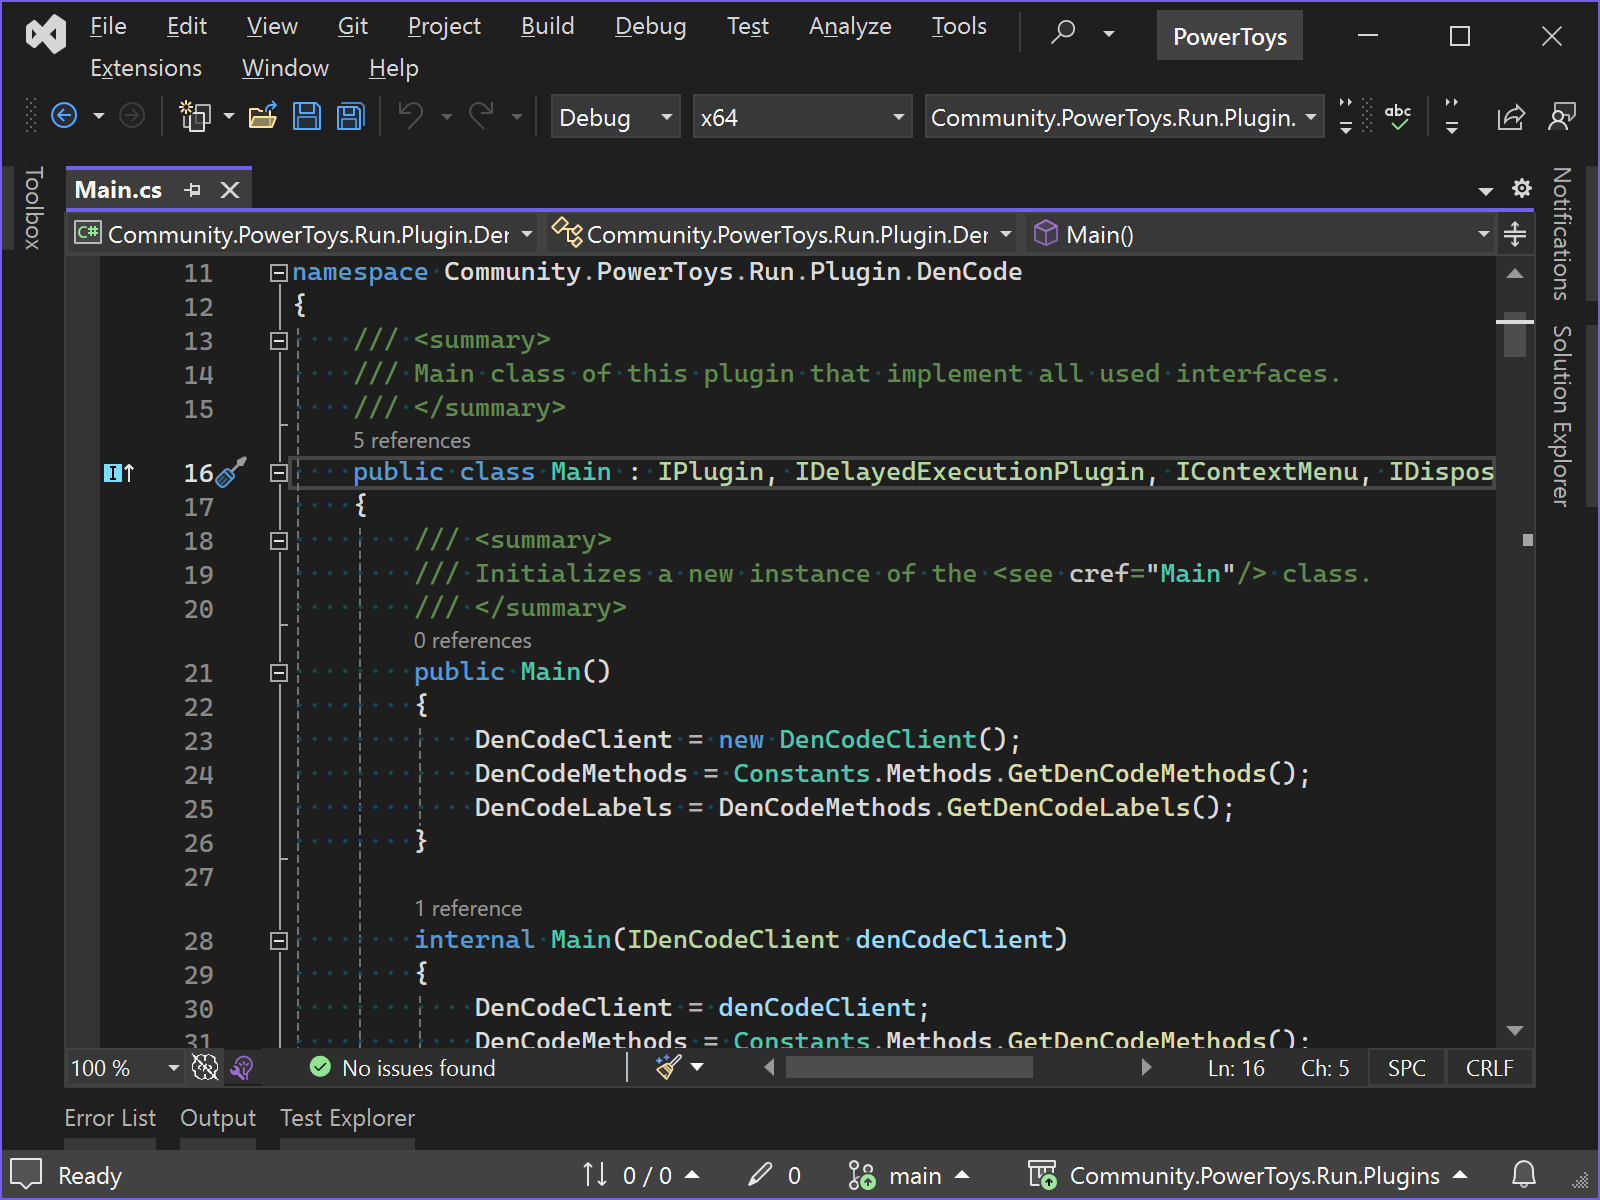
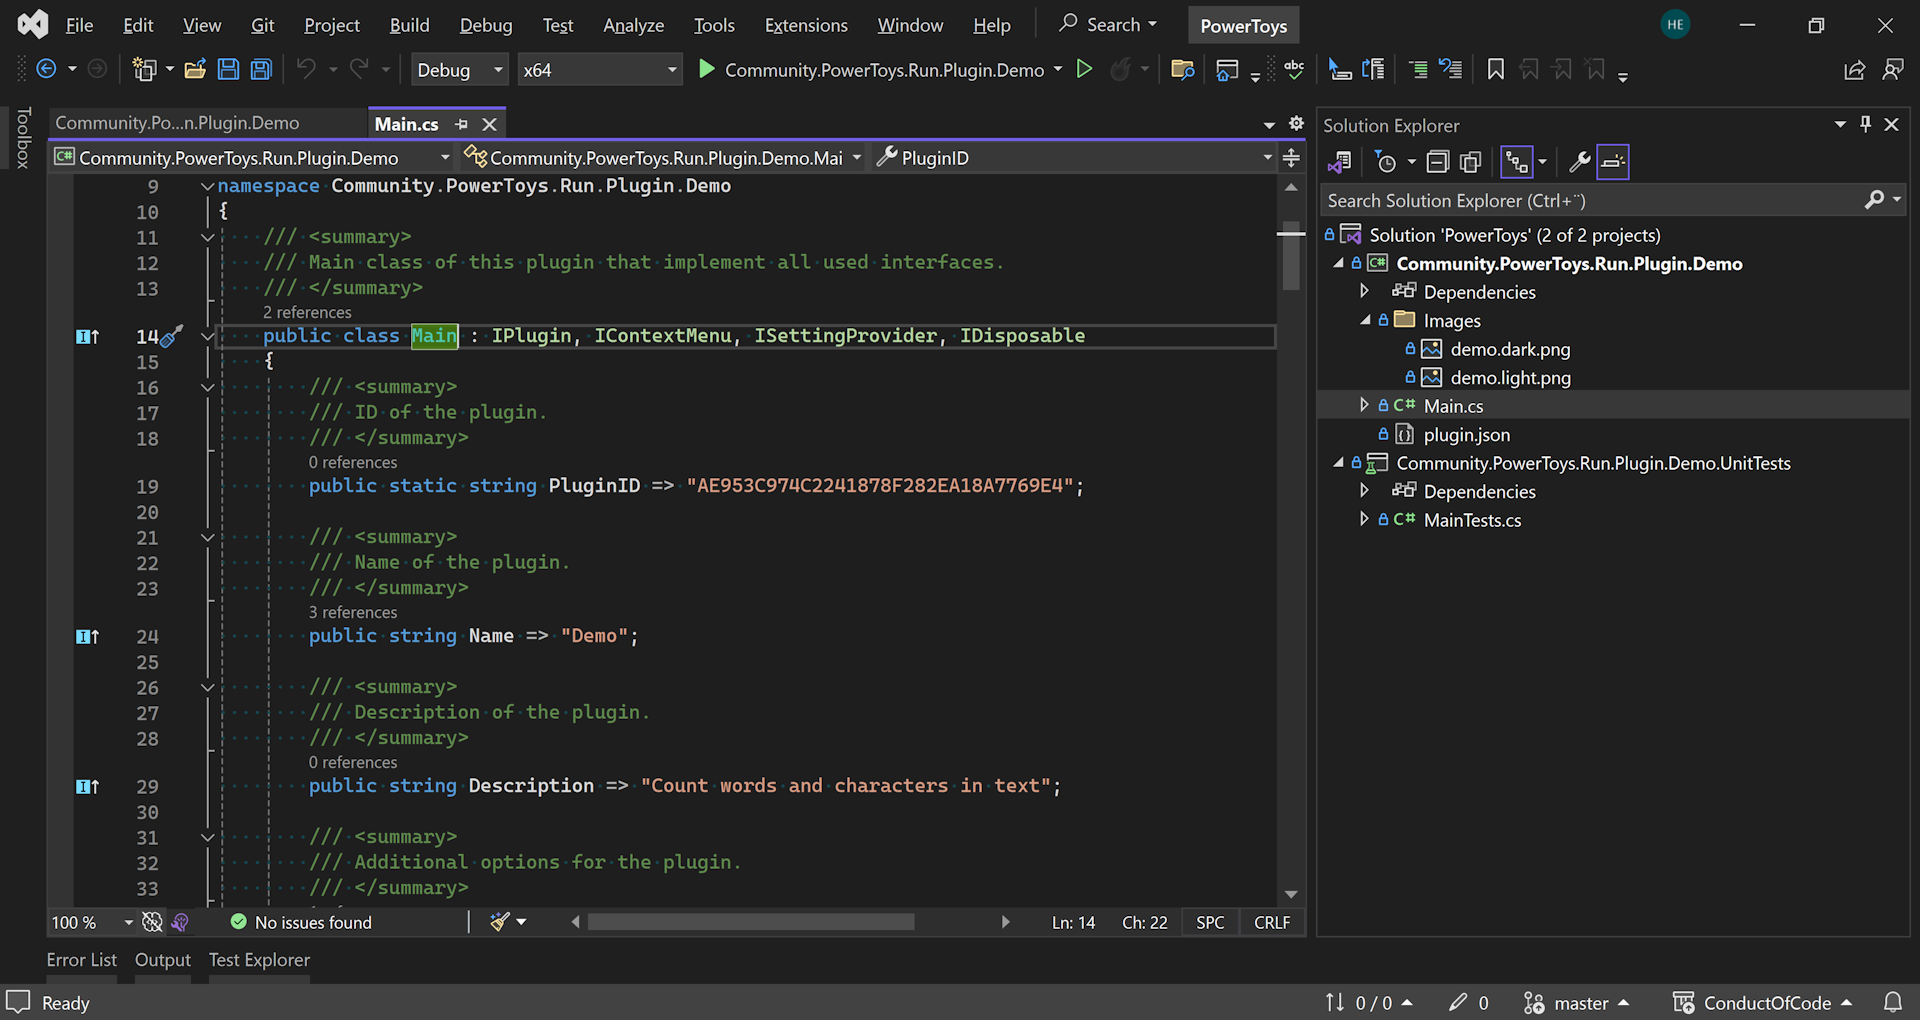
updated Creating custom PowerToys Run plugins

Changed region(s): [[0.0, 0.0, 1.0, 1.0], [0.8125, 0.851, 0.9688, 0.9118], [0.0312, 0.6078, 0.0625, 0.6382]]

diff --git a/_posts/2024-02-13-creating-custom-powertoys-run-plugins.md b/_posts/2024-02-13-creating-custom-powertoys-run-plugins.md
@@ -3,14 +3,15 @@ layout: post
 title: Creating custom PowerToys Run plugins
 description: A step by step guide on how to create community plugins for PowerToys Run
 date: 2024-02-13 22:00:00
+last_modified_at: 2024-02-17 21:00:00
 tags:
  - PowerToys
  - Plugins
  - C#
 image:
  path: /post/creating-custom-powertoys-run-plugins/vs.png
- width: 1600
- height: 1200
+ width: 1920
+ height: 1020
 ---
 
 PowerToys Run is a quick launcher for Windows. It is open-source and modular for additional plugins.
@@ -22,7 +23,7 @@ Official plugins include:
 - Value Generator
 - Windows Search
 
-At the time of writing there are 21 plugins out of the box.
+At the time of writing there are 20 plugins out of the box.
 
 If you think the official plugins are not enough, you can write our own.
 The easiest way to get started is to look at what others did.
@@ -35,13 +36,49 @@ The easiest way to get started is to look at what others did.
 
 Browsing through some of the GitHub repos found above, gives you an idea of how the source code of a plugin looks like.
 
-If you want to look under the hood, fork or clone the PowerToys repo:
+## Contents<!-- omit in toc -->
 
-- <https://github.com/microsoft/PowerToys>
+- [Demo Plugin](#demo-plugin)
+- [Project](#project)
+- [Metadata](#metadata)
+- [Main](#main)
+- [Interfaces](#interfaces)
+  - [IPlugin](#iplugin)
+  - [IPluginI18n](#iplugini18n)
+  - [IDelayedExecutionPlugin](#idelayedexecutionplugin)
+  - [IContextMenu](#icontextmenu)
+  - [ISettingProvider](#isettingprovider)
+- [Classes](#classes)
+  - [PluginInitContext](#plugininitcontext)
+  - [Query](#query)
+  - [Result](#result)
+  - [ContextMenuResult](#contextmenuresult)
+- [Actions](#actions)
+- [Logging](#logging)
+- [Dependencies](#dependencies)
+- [Tests](#tests)
+- [Distribution](#distribution)
+- [Resources](#resources)
 
-Get the solution to build on your machine with the help of the documentation:
+## Demo Plugin
 
-- [Compiling PowerToys](https://github.com/microsoft/PowerToys/tree/main/doc/devdocs#compiling-powertoys)
+As a demo, I created a simple plugin that counts the words and characters of the query.
+
+![Demo Plugin](demo-plugin.png)
+
+- ActionKeyword: `demo`
+
+Settings:
+
+![Demo Settings](demo-settings.png)
+
+- Count spaces: `true` \| `false`
+
+The source code:
+
+- <https://github.com/hlaueriksson/ConductOfCode/tree/master/PowerToysRun>
+
+Throughout this blog post, the demo plugin will be used as an example.
 
 ## Project
 
@@ -49,70 +86,37 @@ Before you create your own project, first take a look at the official checklist:
 
 - [New plugin checklist](https://github.com/microsoft/PowerToys/blob/main/doc/devdocs/modules/launcher/new-plugin-checklist.md)
 
-Key takeaways for the checklist:
+Key takeaways from the checklist:
 
 - Project name: `Community.PowerToys.Run.Plugin.<PluginName>`
 - Target framework: `net8.0-windows`
 - Create a `Main.cs` class
 - Create a `plugin.json` file
 
-After you create a new project, edit the `.csproj` file to look something like this:
+In Visual Studio, create a new [Class Library](https://learn.microsoft.com/en-us/dotnet/core/tutorials/library-with-visual-studio) project.
 
-```xml
-<Project Sdk="Microsoft.NET.Sdk">
+The edit the `.csproj` file to look something like this:
 
-  <PropertyGroup>
-    <TargetFramework>net8.0-windows</TargetFramework>
-    <Platforms>x64;ARM64</Platforms>
-    <PlatformTarget>$(Platform)</PlatformTarget>
-    <UseWPF>true</UseWPF>
-  </PropertyGroup>
-
-  <ItemGroup Condition="'$(Platform)' == 'x64'">
-    <Reference Include="..\libs\x64\PowerToys.Common.UI.dll" />
-    <Reference Include="..\libs\x64\PowerToys.ManagedCommon.dll" />
-    <Reference Include="..\libs\x64\PowerToys.Settings.UI.Lib.dll" />
-    <Reference Include="..\libs\x64\Wox.Infrastructure.dll" />
-    <Reference Include="..\libs\x64\Wox.Plugin.dll" />
-  </ItemGroup>
-
-  <ItemGroup Condition="'$(Platform)' == 'ARM64'">
-    <Reference Include="..\libs\ARM64\PowerToys.Common.UI.dll" />
-    <Reference Include="..\libs\ARM64\PowerToys.ManagedCommon.dll" />
-    <Reference Include="..\libs\ARM64\PowerToys.Settings.UI.Lib.dll" />
-    <Reference Include="..\libs\ARM64\Wox.Infrastructure.dll" />
-    <Reference Include="..\libs\ARM64\Wox.Plugin.dll" />
-  </ItemGroup>
-
-  <ItemGroup>
-    <None Include="plugin.json">
-      <CopyToOutputDirectory>PreserveNewest</CopyToOutputDirectory>
-    </None>
-    <None Include="Images\*.png">
-      <CopyToOutputDirectory>PreserveNewest</CopyToOutputDirectory>
-    </None>
-  </ItemGroup>
-
-</Project>
-```
+{% gist hlaueriksson/5484a19def85f618d7a2297628486c80 Community.PowerToys.Run.Plugin.Demo.csproj %}
 
 - Platforms: `x64` and `ARM64`
-- Dependencies: PowerToys and Wox `.dll` binaries
+- `UseWPF` to include references to WPF assemblies
+- Dependencies: PowerToys and Wox `.dll` assemblies
 
 The `.dll` files referenced in the `.csproj` file are examples of dependencies needed, depending on what features your plugin should support.
 
 Unfortunately, these assemblies do not exist as packages on NuGet.
 
-I like to commit these `.dll` files to the repo in a `libs` folder.
+Therefore I like to commit these `.dll` files to the repo in a `libs` folder.
 
-I'll copy the `x64` versions of the `.dll` files from installation location:
+I'll copy the `x64` versions of the `.dll` files from the installation location:
 
 - `C:\Program Files\PowerToys\`
   - Machine wide installation of PowerToys
 - `%LocalAppData%\PowerToys\`
   - Per user installation of PowerToys
 
-In the case of `ARM64` versions of the `.dll` files, I'll build them from source.
+In the case of the `ARM64` versions of the `.dll` files, I'll build them from source.
 I don't own an `ARM64` machine to install PowerToys on.
 
 Other people like to resolve the dependencies by referencing the PowerToys projects directly.
@@ -123,24 +127,42 @@ Like the approach by Lin Yu-Chieh (Victor):
 The project should start out with these files:
 
 - `Images\*.png`
-  - typically dark and light versions of icons
+  - Typically dark and light versions of icons
 - `Main.cs`
-  - the starting point of the plugin logic
+  - The starting point of the plugin logic
 - `plugin.json`
-  - the plugin manifest
+  - The plugin metadata
+
+## Metadata
+
+Create a `plugin.json` file that looks something like this:
+
+{% gist hlaueriksson/5484a19def85f618d7a2297628486c80 plugin.json %}
+
+The format is described in the Dev Documentation:
+
+- [New plugin checklist](https://github.com/microsoft/PowerToys/blob/main/doc/devdocs/modules/launcher/new-plugin-checklist.md)
 
 ## Main
+
+Create a `Main.cs` file that looks something like this:
+
+{% gist hlaueriksson/5484a19def85f618d7a2297628486c80 Main.cs %}
 
 The `Main` class must have a public, static string property named `PluginID`:
 
 ```cs
-public static string PluginID => "0B47DD2677CD41E9927218E9D67EFAD1";
+public static string PluginID => "AE953C974C2241878F282EA18A7769E4";
 ```
 
 - 32 digits `Guid` without hyphens
 - Must match the value in the `plugin.json` file
 
 In addition, the `Main` class should implement a few interfaces.
+
+Let's break down the implemented *interfaces* and the *classes* used in the example above.
+
+## Interfaces
 
 Some interfaces of interest from the `Wox.Plugin` assembly:
 
@@ -149,13 +171,6 @@ Some interfaces of interest from the `Wox.Plugin` assembly:
 - `IDelayedExecutionPlugin`
 - `IContextMenu`
 - `ISettingProvider`
-
-Some classes of interest from the `Wox.Plugin` assembly:
-
-- `PluginInitContext`
-- `Query`
-- `Result`
-- `ContextMenuResult`
 
 ### IPlugin
 
@@ -175,7 +190,8 @@ public interface IPlugin
 ```
 
 - `Query` is the method that does the actual logic in the plugin
-- `Init` is used to initialize the plugin and complements a constructor
+- `Init` is used to initialize the plugin
+  - Save a reference to the `PluginInitContext` for later use
 - `Name` ought to match the value in the `plugin.json` file, but can be localized
 
 ### IPluginI18n
@@ -244,6 +260,15 @@ public interface ISettingProvider
 - `AdditionalOptions` is invoked when the PowerToys GUI displays the settings
   - Use this property to define how the custom settings are renderer in the PowerToys GUI
 
+## Classes
+
+Some classes of interest from the `Wox.Plugin` assembly:
+
+- `PluginInitContext`
+- `Query`
+- `Result`
+- `ContextMenuResult`
+
 ### PluginInitContext
 
 A `PluginInitContext` instance is passed as argument to the `Init` method:
@@ -257,7 +282,6 @@ public class PluginInitContext
 }
 ```
 
-- Store the context in a member in the plugin for later use
 - `PluginMetadata` can be useful if you need the path to the `PluginDirectory` or the `ActionKeyword` of the plugin
 - `IPublicAPI` is mainly used to `GetCurrentTheme`, but can also `ShowMsg`, `ShowNotification` or `ChangeQuery`
 
@@ -279,7 +303,7 @@ Example of how to create a new result:
 ```cs
 new Result
 {
-    QueryTextDisplay = "An optional text that are displayed where the user types queries", // usually a command of some sort (if needed)
+    QueryTextDisplay = query.Search, // displayed where the user types queries
     IcoPath = IconPath, // displayed on the left side
     Title = "A title displayed in the top of the result",
     SubTitle = "A subtitle displayed under the main title",
@@ -331,7 +355,7 @@ Find the perfect `Glyph` to use from:
 - [Segoe Fluent Icons font](https://learn.microsoft.com/en-us/windows/apps/design/style/segoe-fluent-icons-font)
 - [Segoe MDL2 Assets icons](https://learn.microsoft.com/en-us/windows/apps/design/style/segoe-ui-symbol-font)
 
-## Action
+## Actions
 
 Examples of actions to use with `Result` or `ContextMenuResult`:
 
@@ -361,14 +385,14 @@ Action = _ =>
 
 ## Logging
 
-Logging is done with the static `Log` class.
+Logging is done with the static `Log` class, from the `Wox.Plugin.Logger` namespace.
 Under the hood, `NLog` is used.
 
 Five log levels:
 
 ```cs
 Log.Debug("A debug message", GetType());
-Log.Info("An info message", GetType());
+Log.Info("An information message", GetType());
 Log.Warn("A warning message", GetType());
 Log.Error("An error message", GetType());
 Log.Exception("An exceptional message", new Exception(), GetType());
@@ -391,7 +415,7 @@ Packages of interest:
 - `LazyCache`
 - `Newtonsoft.Json`
 
-If the plugin uses any third party dependencies that are not referenced by PowerToys you need to enable `DynamicLoading`.
+If the plugin uses any third party dependencies that are not referenced by PowerToys Run, you need to enable `DynamicLoading`.
 
 In the `plugin.json` file:
 
@@ -414,49 +438,22 @@ The official plugins use the [MSTest](https://github.com/microsoft/testfx) frame
 
 The `.csproj` file of a unit test project may look something like this:
 
-```xml
-<Project Sdk="Microsoft.NET.Sdk">
-
-  <PropertyGroup>
-    <TargetFramework>net8.0-windows</TargetFramework>
-  </PropertyGroup>
-
-  <ItemGroup>
-    <PackageReference Include="Microsoft.NET.Test.Sdk" Version="17.8.0" />
-    <PackageReference Include="Moq" Version="4.20.70" />
-    <PackageReference Include="MSTest.TestAdapter" Version="3.1.1" />
-    <PackageReference Include="MSTest.TestFramework" Version="3.1.1" />
-    <PackageReference Include="NLog" Version="5.0.4" />
-    <PackageReference Include="System.IO.Abstractions" Version="17.2.3" />
-  </ItemGroup>
-
-  <ItemGroup>
-    <ProjectReference Include="..\Community.PowerToys.Run.Plugin.Demo\Community.PowerToys.Run.Plugin.Demo.csproj" />
-  </ItemGroup>
-
-  <ItemGroup Condition="'$(Platform)' == 'x64'">
-    <Reference Include="..\libs\x64\Wox.Plugin.dll" />
-    <Reference Include="..\libs\x64\PowerToys.Settings.UI.Lib.dll" />
-  </ItemGroup>
-
-  <ItemGroup Condition="'$(Platform)' == 'ARM64'">
-    <Reference Include="..\libs\ARM64\Wox.Plugin.dll" />
-    <Reference Include="..\libs\ARM64\PowerToys.Settings.UI.Lib.dll" />
-  </ItemGroup>
-
-</Project>
-```
+{% gist hlaueriksson/5484a19def85f618d7a2297628486c80 Community.PowerToys.Run.Plugin.Demo.UnitTests.csproj %}
 
 - Apart from the actual test assemblies, some package references are also needed
-- As well as references to PowerToys and Wox `.dll` binaries
+- As well as references to PowerToys and Wox `.dll` assemblies
 
-Some of the official plugins has unit test coverage:
+Unit tests of the `Main` class may look something like this:
+
+{% gist hlaueriksson/5484a19def85f618d7a2297628486c80 MainTests.cs %}
+
+Some of the official plugins have unit test coverage:
 
 - <https://github.com/microsoft/PowerToys/tree/main/src/modules/launcher/Plugins>
 
 ## Distribution
 
-Unfortunately there is no plugin manager in PowerToys that can be used to download new plugins.
+Unfortunately, the plugin manager in PowerToys Run does not offer support for downloading new plugins.
 
 Community plugins are traditionally packaged in `.zip` files and distributed via releases in GitHub repositories.
 
@@ -473,6 +470,10 @@ The `Everything` plugin by Lin Yu-Chieh (Victor) is next level and is [distribut
 
 ## Resources
 
+Demo Plugin:
+
+- <https://github.com/hlaueriksson/ConductOfCode/tree/master/PowerToysRun>
+
 Awesome PowerToys Run Plugins:
 
 - <https://github.com/hlaueriksson/awesome-powertoys-run-plugins>
@@ -480,3 +481,23 @@ Awesome PowerToys Run Plugins:
 Third-Party plugins for PowerToy Run:
 
 - <https://github.com/microsoft/PowerToys/blob/main/doc/thirdPartyRunPlugins.md>
+
+Unofficial Visual Studio project template for PowerToys Run plugins:
+
+- <https://github.com/8LWXpg/PowerToysRun-PluginTemplate>
+
+Documentation:
+
+- <https://learn.microsoft.com/en-us/windows/powertoys/run>
+
+Dev Documentation:
+
+- <https://github.com/microsoft/PowerToys/tree/main/doc/devdocs/modules/launcher>
+
+If you want to look under the hood, fork or clone the PowerToys repo:
+
+- <https://github.com/microsoft/PowerToys>
+
+Get the solution to build on your machine with the help of the documentation:
+
+- [Compiling PowerToys](https://github.com/microsoft/PowerToys/tree/main/doc/devdocs#compiling-powertoys)
